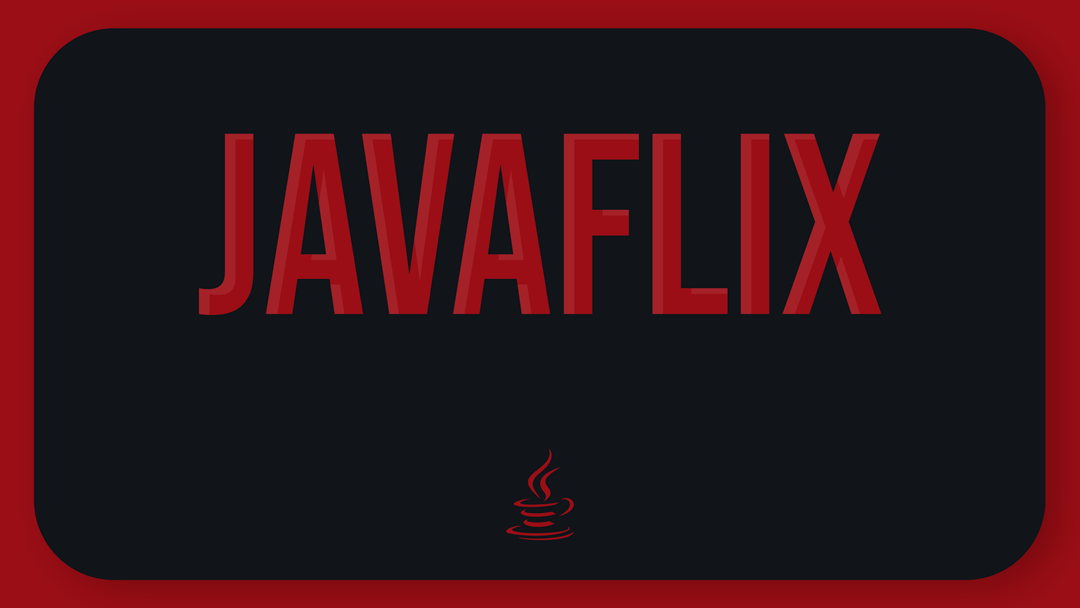
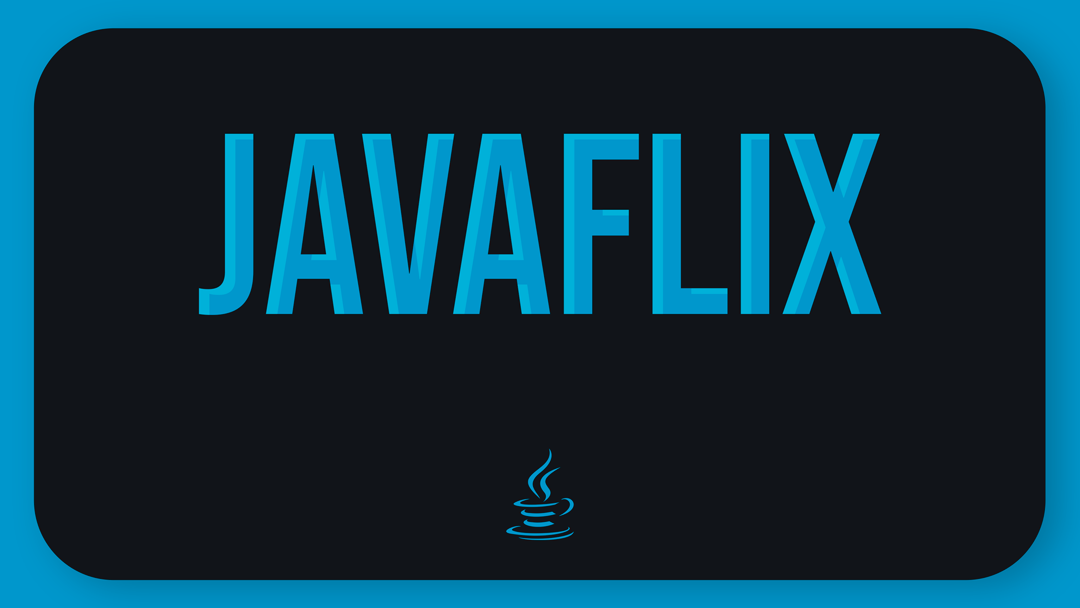
Update Color Scenes

Changed region(s): [[0.0, 0.0, 1.0, 1.0], [0.1833, 0.2188, 0.825, 0.5312], [0.4583, 0.75, 0.55, 0.9062]]

diff --git a/demo/src/main/java/example/visao/style.css b/demo/src/main/java/example/visao/style.css
@@ -2,6 +2,8 @@
     -fx-control-inner-background: rgb(25, 27, 31);
     -fx-font: 15pt "Arial";
     -fx-font-weight: bold;
+    -fx-border-color: rgb(0, 150, 201);
+    -fx-border-top-width: 5px;
 }
 #botaoIniciar{
     -fx-position: relative;

diff --git a/demo/target/classes/example/visao/style.css b/demo/target/classes/example/visao/style.css
@@ -2,6 +2,8 @@
     -fx-control-inner-background: rgb(25, 27, 31);
     -fx-font: 15pt "Arial";
     -fx-font-weight: bold;
+    -fx-border-color: rgb(0, 150, 201);
+    -fx-border-top-width: 5px;
 }
 #botaoIniciar{
     -fx-position: relative;

diff --git a/demo/src/main/java/example/modelo/Filme.java b/demo/src/main/java/example/modelo/Filme.java
@@ -1,8 +1,5 @@
 package example.modelo;
 
-import javafx.scene.image.ImageView;
-import java.io.*;
-
 public class Filme extends Titulo {
     private double duracaoEmSegs;
 
